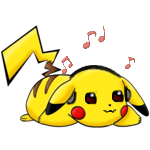
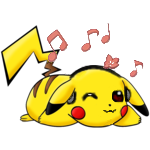
pikachu audio doublé corrigé

diff --git a/files/class_py/setting.py b/files/class_py/setting.py
@@ -234,7 +234,6 @@ class Setting(Element,Screen):
                     self.img(720,400,50,50,"/setting/key_up")
                 else:
                     self.button_rect(self.darkgreenblue, 205, 220, 160, 40)  # Couleur de base
-                    self.img(205,576,150,150,"/setting/pikachu_sleep")
                 self.texte(15, 'Controles', self.white, 205, 220)
 
                 # Selecteur 2 Statistiques/Reset
@@ -289,7 +288,7 @@ class Setting(Element,Screen):
 
                 # Selecteur 3 Audio
                 if m == 3:
-                    self.img(205,596,150,150,"/setting/pikachu_music")
+                    self.img(205,576,150,150,"/setting/pikachu_audio")
                     self.button_rect(self.lightbluesea, 205, 394, 160, 40)
 
                     #Titre musique
